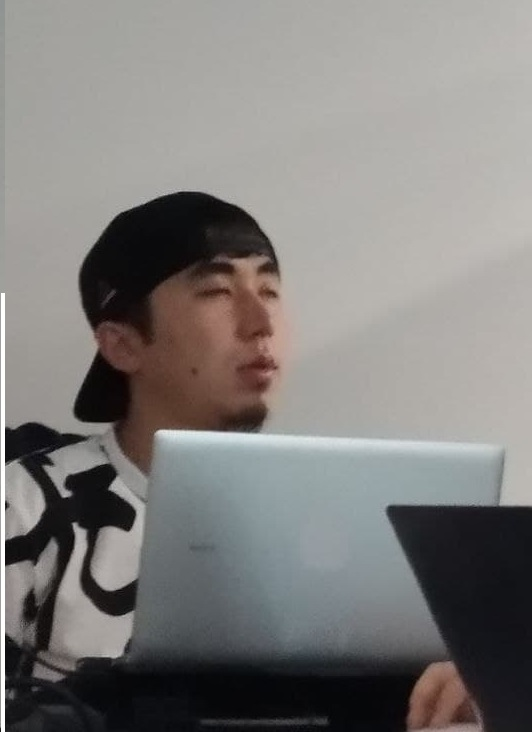
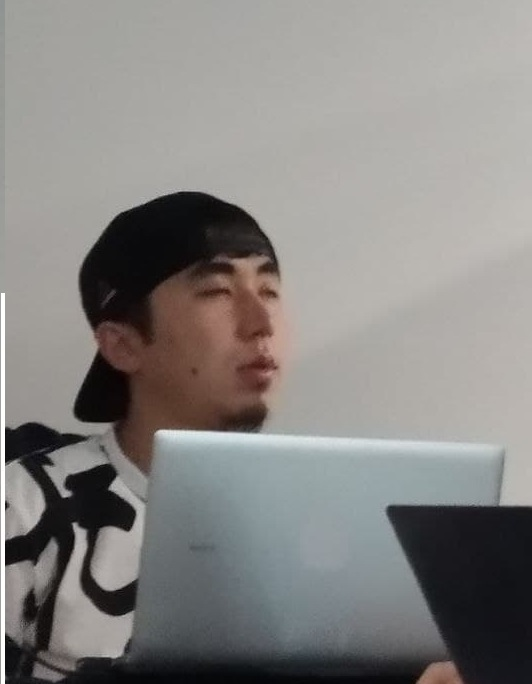
few changes

Changed region(s): [[0.0, 0.2456, 1.0, 1.0], [0.3609, 0.7368, 0.4211, 0.7675], [0.0, 0.3991, 0.0301, 0.4298]]

diff --git a/css/style.css b/css/style.css
@@ -1,4 +1,6 @@
-
+h1 {
+    text-align: center;
+}
 .box {
     margin: 0 auto;
     height: 600px;
@@ -14,7 +16,15 @@
 }
 
 .second {
+    display: block;
+    min-width: 450px;
+}
+
+.box-overlay {
     position: absolute;
-    top: 0;
+    overflow: hidden;
+    width: 100%;
+    height: 100%;
     left: 0;
+    top: 0;
 }

diff --git a/index.html b/index.html
@@ -12,8 +12,11 @@
 
 <div class="box">
 	<img class="first" src="./img/1.jpg" alt="#">
-	<img class="second" src="./img/2.jpg" alt="#">
+	<div class="box-overlay">
+		<img class="second" src="./img/2.jpg" alt="#">
+	</div>
 </div>
+<h1>РАЗБУДИ КАЛЫША</h1>
 
 <script src="./js/script.js"></script>
 </body>

diff --git a/js/script.js b/js/script.js
@@ -1,5 +1,6 @@
 let box = document.querySelector('.box')
-let secondImg = document.querySelector('.second')
+
+let secondImg = document.querySelector('.box-overlay')
 
 box.addEventListener('mousemove', (e) => {
     secondImg.style.width = e.offsetX + 'px'
